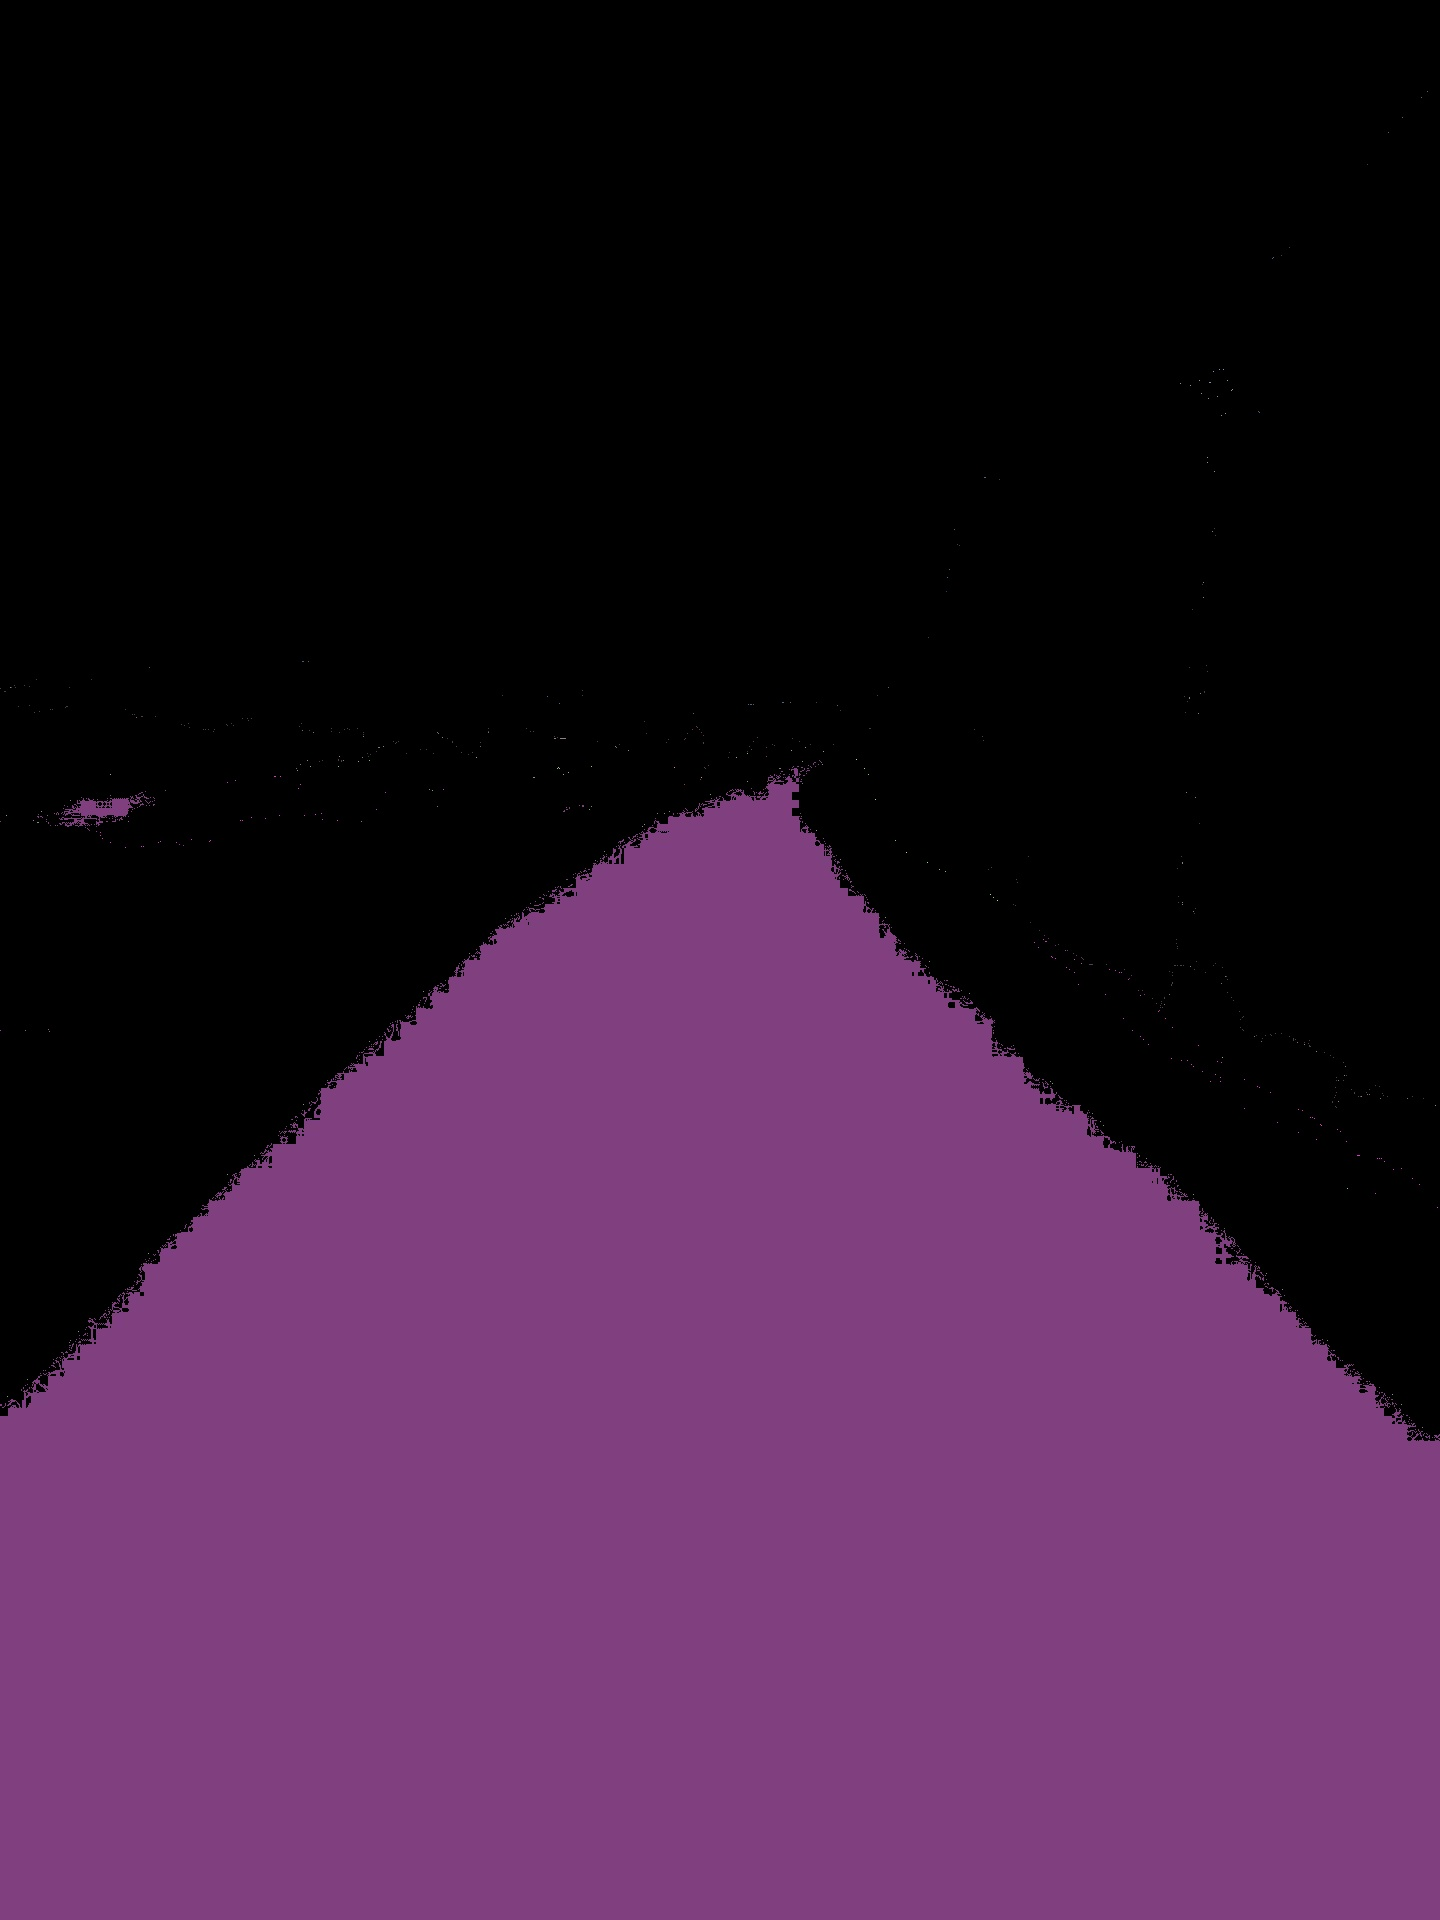
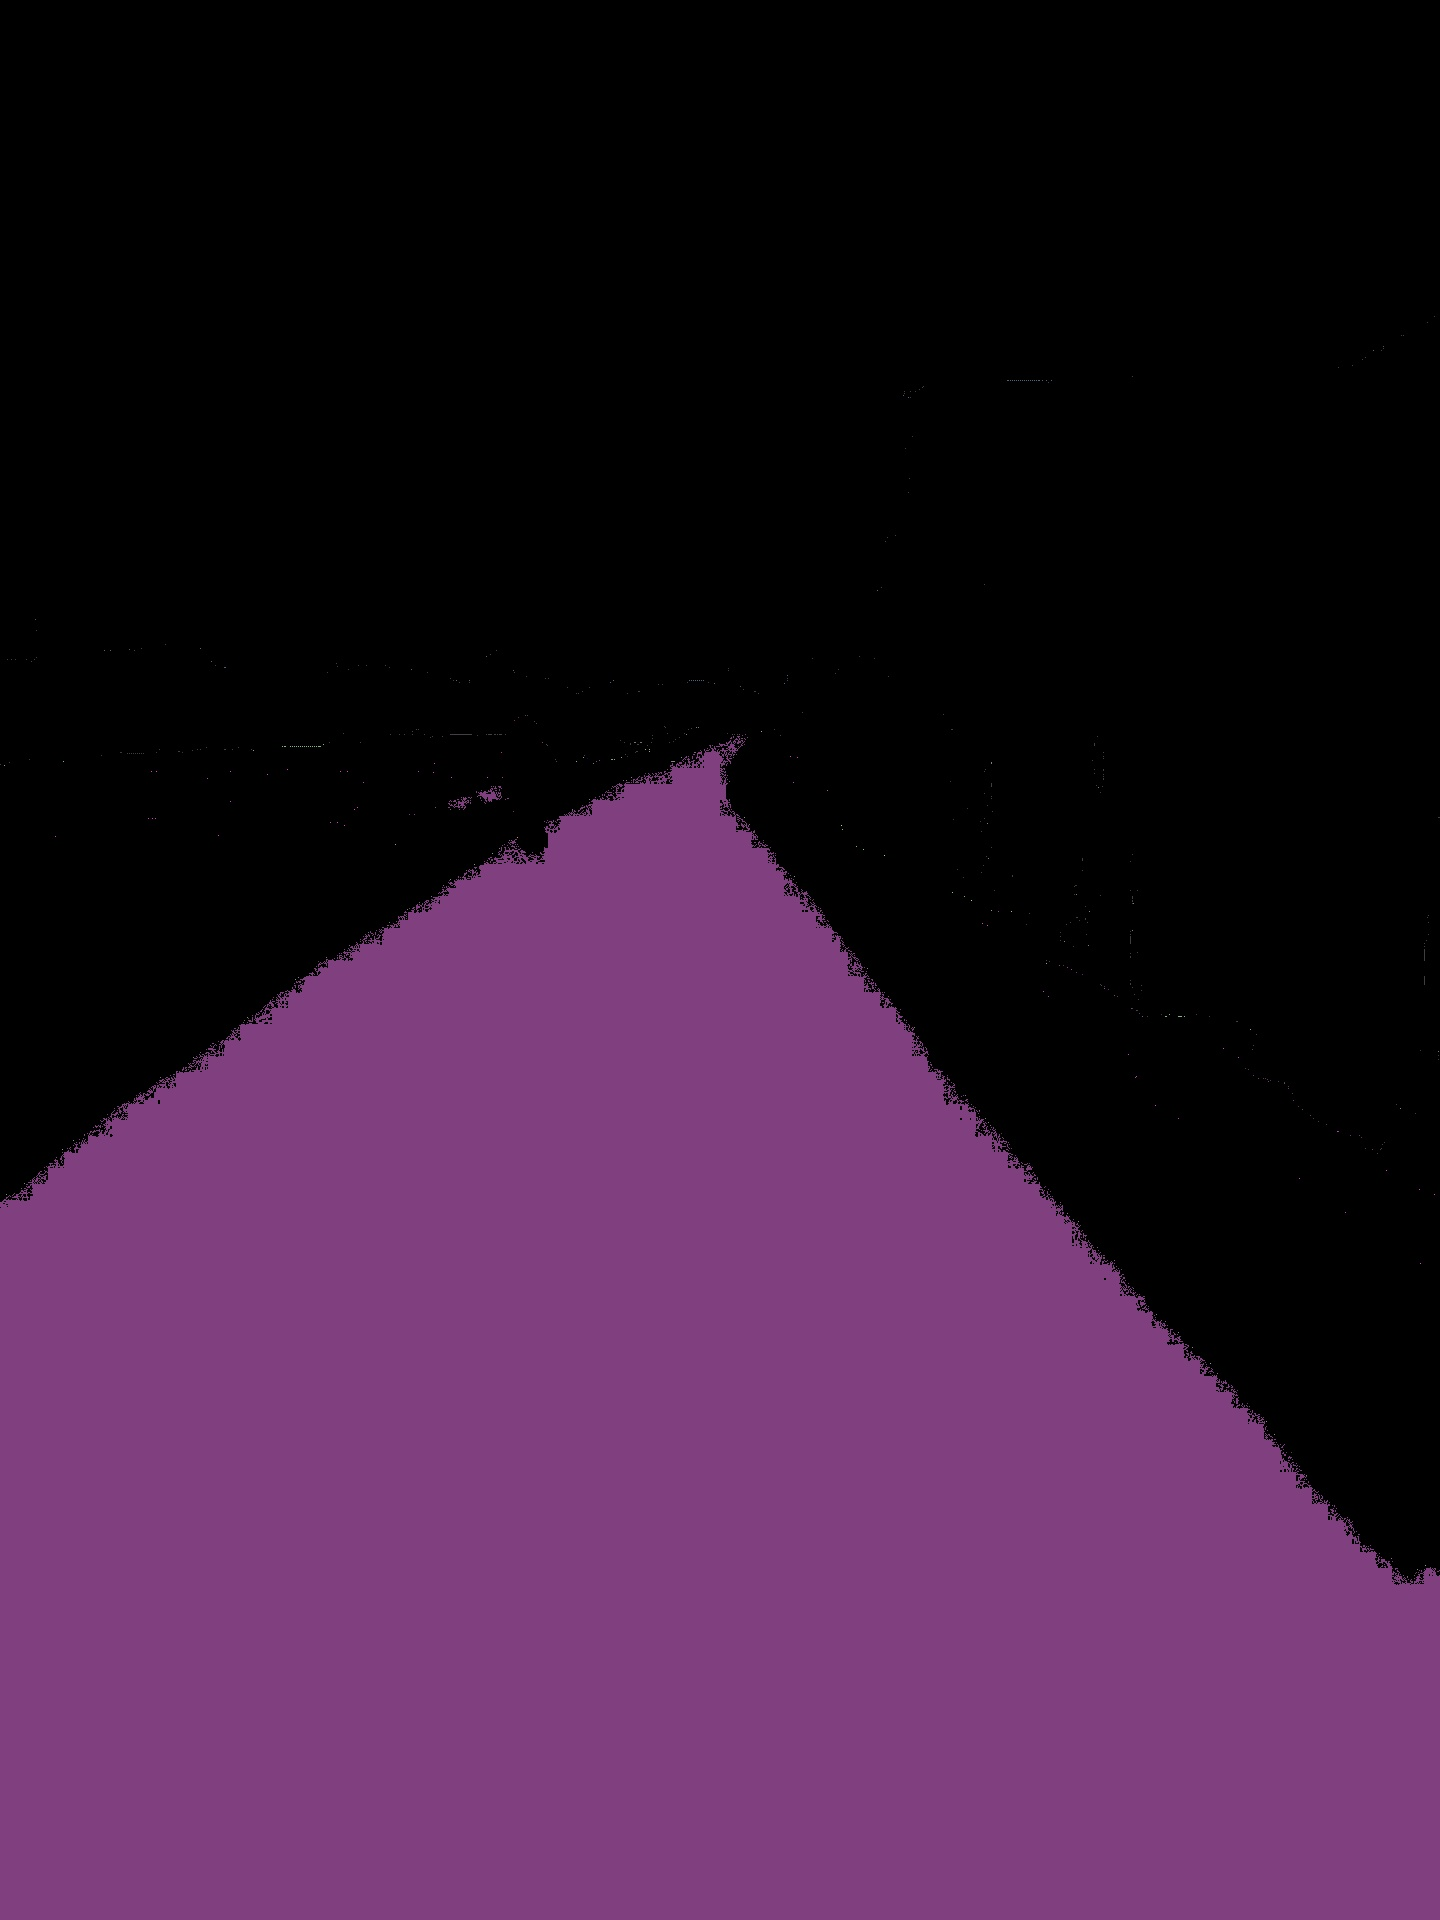
Update

Changed region(s): [[0.0, 0.375, 1.0, 0.8438], [0.0312, 0.4062, 0.0938, 0.4375]]

diff --git a/ctrans/boundary_extraction.py b/ctrans/boundary_extraction.py
@@ -1,6 +1,8 @@
 from ctrans import get_data_from_csv, screenToCamera, cameraToWorld, calculateRealCoordinate, createDataText
+from ctrans_inv import worldToCamera, cameraToScreen, plot
 import matplotlib.pyplot as plt
 import cv2
+import numpy as np
 
 def make_coordinaets(first_coordinate):
     coordinates = []
@@ -8,9 +10,43 @@ def make_coordinaets(first_coordinate):
         coordinates.append([first_coordinate[0]+i*14,first_coordinate[1]+i*9])
     return coordinates
 
+def extract_coordinates(R,K,T,mask_image):
+    coordinates=[]
+    counter=100
+    for delta_z in range(16):
+        pre_color = None
+        for delta_x in range(-500,501):
+            real_coordinate = np.array([T[0][0]+0.01*delta_x,-1.35,T[2][0]-1*delta_z]).reshape(3,1)
+            #print(real_coordinate)
+            real_coordinate_camera = worldToCamera(real_coordinate, R, T)
+            u,v = cameraToScreen(real_coordinate_camera, mask_image, K)
+            #print([u,v])
+            if u<0 or u>=1440 or v<0 or v>=1920:
+                pass
+            else:
+                rgb = mask_image[v][u]
+                if rgb[0]==128 and rgb[1]==63 and rgb[2]==127:
+                    color = "violet"
+                else:
+                    color = "black"
+
+                if counter==100:
+                    if pre_color==None:
+                        pre_color = color
+                    elif pre_color != color:
+                        coordinates.append([u,v])
+                        pre_color = color
+                        counter=0
+                else:
+                    counter+=1
+    return coordinates
+
 def main():
-    im = plt.imread('images/10218.jpg')
-    image = cv2.rotate(im, cv2.ROTATE_90_CLOCKWISE)
+    image = plt.imread('images/mask_road.jpg')
+    R, K, T = get_data_from_csv('1207_1444_12.csv', 10218)
+    coordinates = extract_coordinates(R,K,T,image)
+    plot(image, coordinates, 'images/extracted.jpg')
+    """
     coordinates = make_coordinaets([500,844])
     data=[]
     for i in range(len(coordinates)):
@@ -32,6 +68,7 @@ def main():
             data.append([str(10218), str(100+i), str(real_coordinate[0][0]), str(real_coordinate[2][0])])
     print(data)
     #createDataText('./data.txt', data)
+    """
 
 if __name__ == '__main__':
     main()

diff --git a/ctrans/ctrans_inv.py b/ctrans/ctrans_inv.py
@@ -22,11 +22,11 @@ def cameraToScreen(real_coordinate_camera, image, K):
     coordinates = (int(u),int(v))
     return coordinates
 
-def plot(image, coordinates):
+def plot(image, coordinates, path):
     for i in range(len(coordinates)):
         cv2.circle(image, coordinates[i], 5, (255,0,0), -1)
     image_bgr = cv2.cvtColor(image, cv2.COLOR_RGB2BGR)
-    cv2.imwrite('images/result_four_people.jpg', image_bgr)
+    cv2.imwrite(path, image_bgr)
 
 def main():
     time = []
@@ -36,7 +36,7 @@ def main():
     
     predictions = []
     sys.path.append(str(Path('ctrans_inv.py').resolve().parent.parent))
-    with open(sys.path[-1]+'\\socialgan\\datasets\\original\\scean3\\output.txt') as f:
+    with open(sys.path[-1]+'\\socialgan\\datasets\\original\\scean4\\output.txt') as f:
     #with open(sys.path[-1]+'\\socialgan\\datasets\\original\\scean1\\output.txt') as f:
         for line in f:
             predictions.append(line.strip().split('\t'))
@@ -45,14 +45,18 @@ def main():
     image_path = 'images/0129_1712_17/'+time[-1]+'.jpg'
     im = plt.imread(image_path)
     image = cv2.rotate(im, cv2.ROTATE_90_CLOCKWISE)
+    plt.imshow(image)
+    plt.show()
+    plt.close()
 
     coordinates = []
     for i in range(len(predictions)):
-        real_coordinate = np.array([float(predictions[i][2]),-1.35,float(predictions[i][3])]).reshape(3,1)
-        real_coordinate_camera = worldToCamera(real_coordinate, R, T)
-        coordinates.append(cameraToScreen(real_coordinate_camera, image, K))
+        if predictions[i][1]!=str(0):
+            real_coordinate = np.array([float(predictions[i][2]),-1.35,float(predictions[i][3])]).reshape(3,1)
+            real_coordinate_camera = worldToCamera(real_coordinate, R, T)
+            coordinates.append(cameraToScreen(real_coordinate_camera, image, K))
     
-    plot(image, coordinates)
+    plot(image, coordinates, 'images/result_four_people_1.jpg')
     
 if __name__ == '__main__':
     main()

diff --git a/ctrans/ctrans.py b/ctrans/ctrans.py
@@ -76,7 +76,12 @@ def main():
         coordinates, image = get_foot_coordinates('images/0129_1712_17/'+time[i]+'.jpg')
         print(coordinates)
         j = 0
+        flag=True
         while(j < len(coordinates)):
+            if flag:
+                R, K, T = get_data_from_csv('0129_1712_17.csv', int(time[i]))
+                data.append([time[i], str(0), str(T[0][0]), str(T[2][0])])
+                flag=False
             index = int(input("Input index number:"))
             if index == -1:
                 x = int(input("Input coordinate x: "))
@@ -98,7 +103,7 @@ def main():
             j+=1
 
     sys.path.append(str(Path('ctrans.py').resolve().parent.parent))
-    createDataText(sys.path[-1]+'\\socialgan\\datasets\\original\\scean3\\data.txt', data)
+    createDataText(sys.path[-1]+'\\socialgan\\datasets\\original\\scean3\\data1.txt', data)
 
 if __name__ == '__main__':
     main()

diff --git a/segformer/mmseg/models/segmentors/base.py b/segformer/mmseg/models/segmentors/base.py
@@ -198,9 +198,11 @@ class BaseSegmentor(nn.Module):
         log_vars['loss'] = loss
         for loss_name, loss_value in log_vars.items():
             # reduce loss when distributed training
+            '''
             if dist.is_available() and dist.is_initialized():
                 loss_value = loss_value.data.clone()
                 dist.all_reduce(loss_value.div_(dist.get_world_size()))
+            '''
             log_vars[loss_name] = loss_value.item()
 
         return loss, log_vars

diff --git a/socialgan/sgan/data/trajectories.py b/socialgan/sgan/data/trajectories.py
@@ -89,7 +89,7 @@ class TrajectoryDataset(Dataset):
         super(TrajectoryDataset, self).__init__()
 
         #self.data_dir = data_dir
-        self.data_dir = 'datasets/original/scean3/'
+        self.data_dir = 'datasets/original/scean4/'
         self.obs_len = obs_len
         self.pred_len = pred_len
         self.skip = skip
